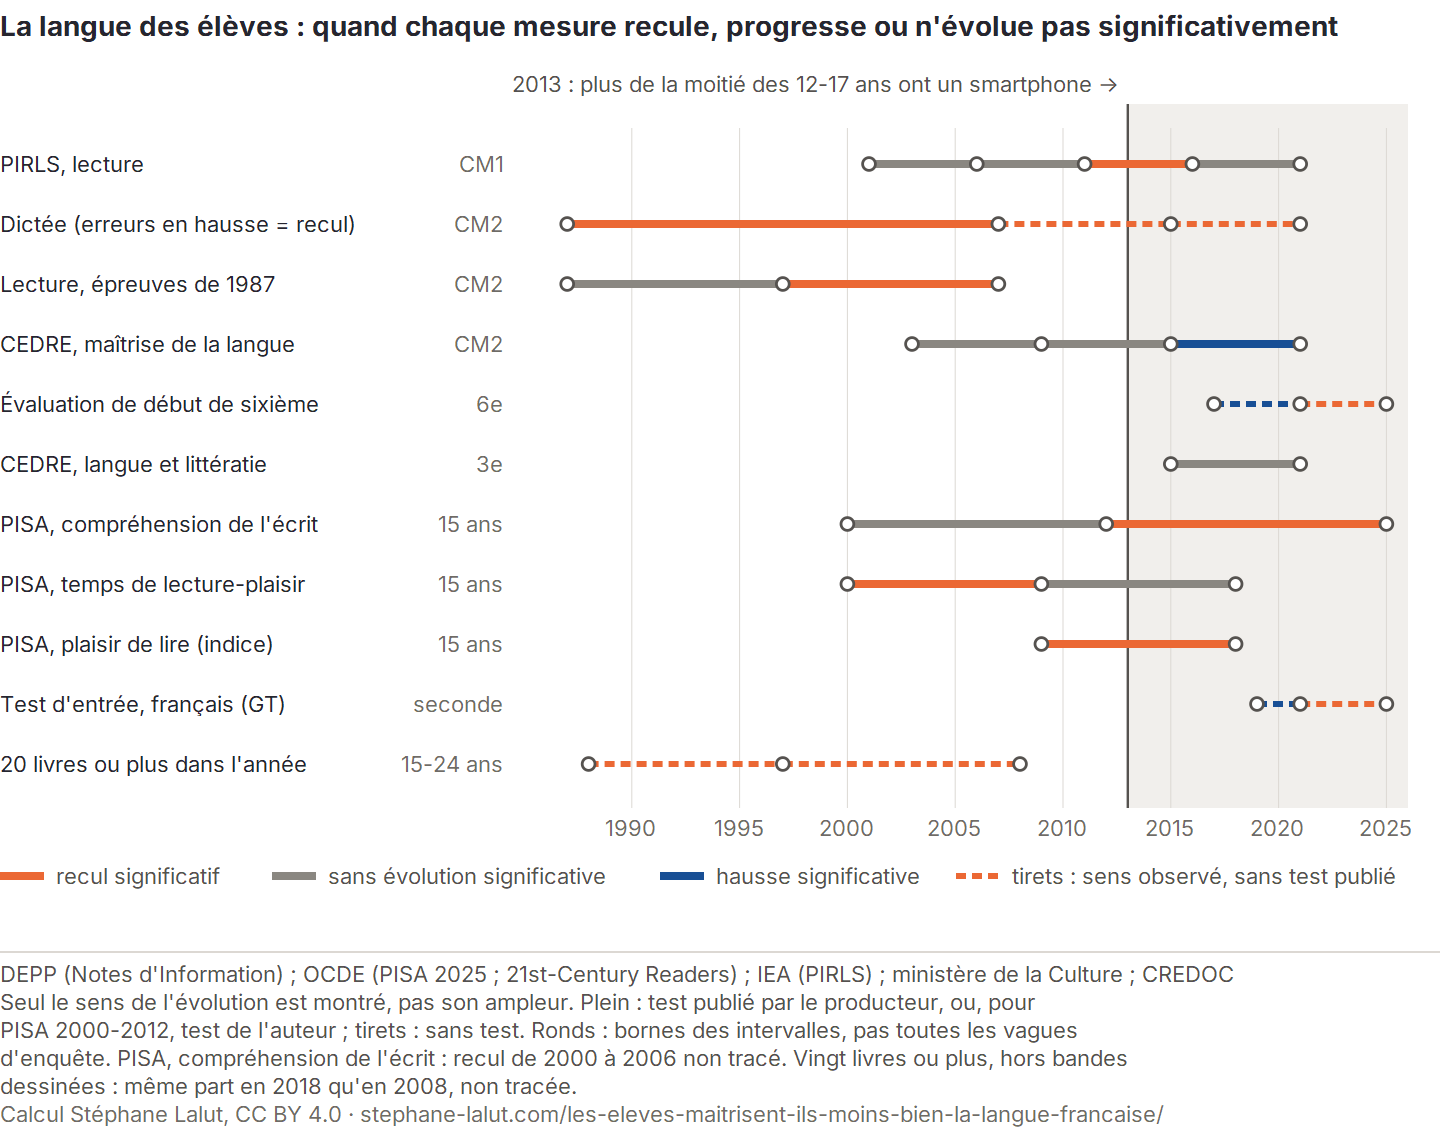
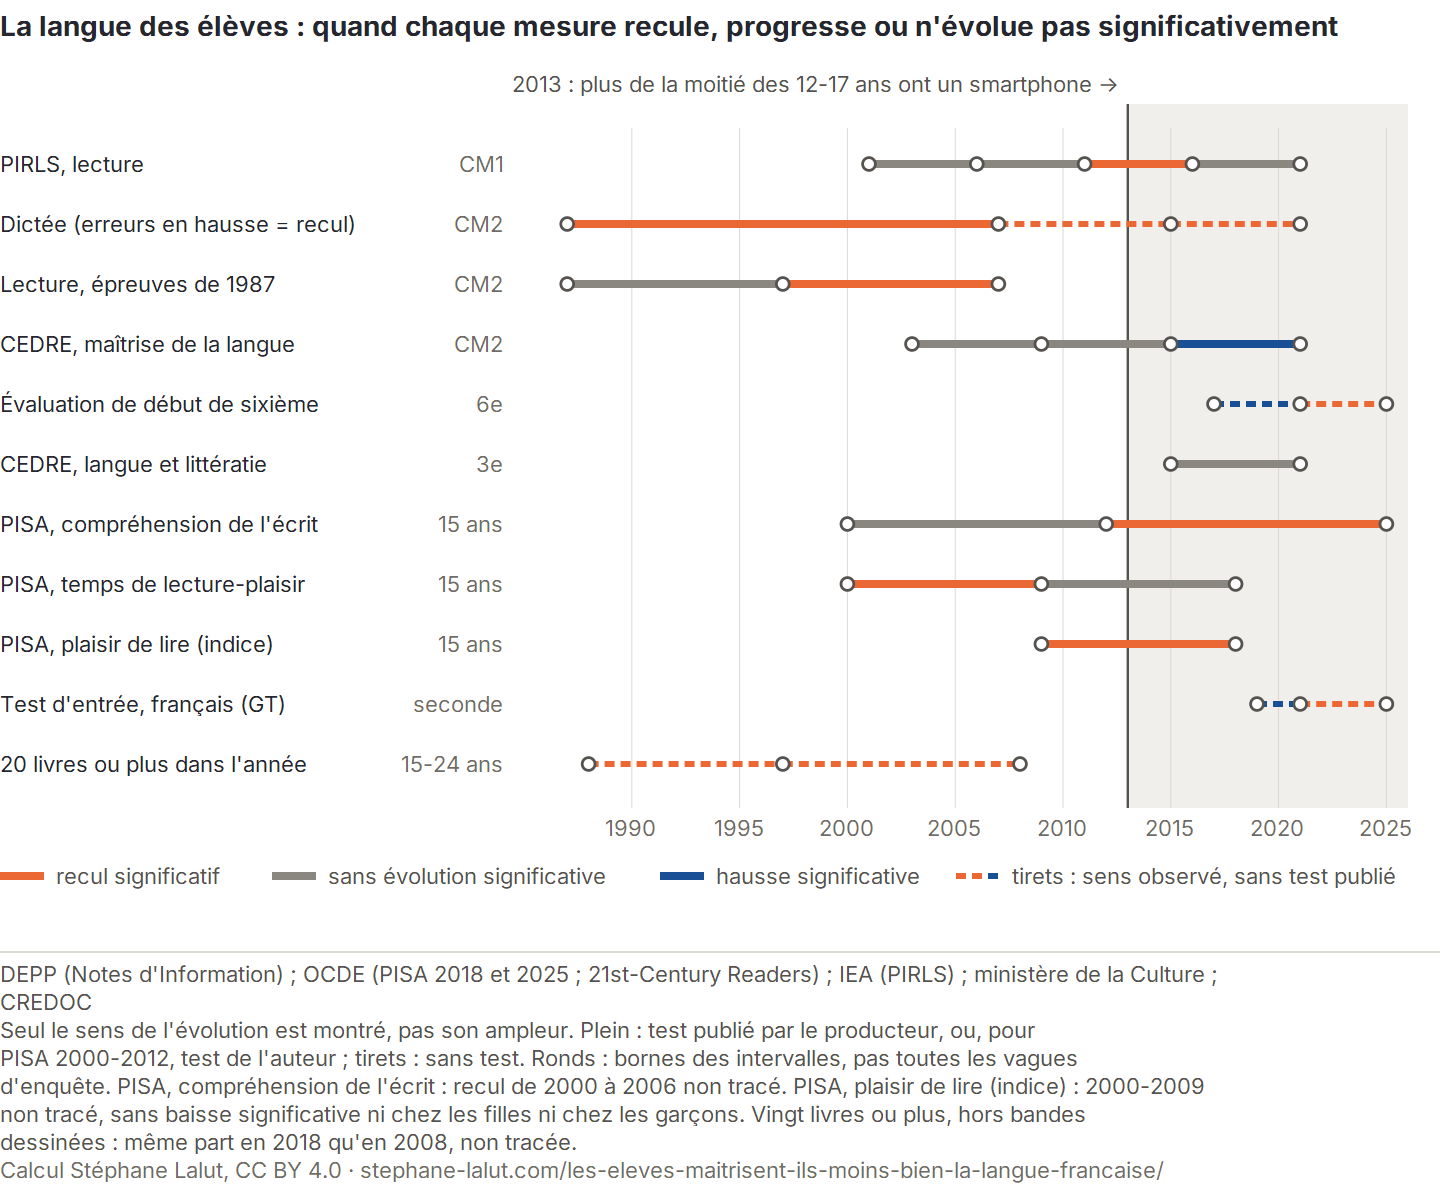
fix(ecole): Étudiants (quatre situations, comparateurs, résultat de la première section) et frise de Langue
- Étudiants : quatrième situation du BEH 2023 n° 2 (retraités, +1,7 point,
  garde) ; comparateurs d'EPICOV et de CONFINS ; « Le résultat en une
  phrase » de la première section répond à son intertitre (premier écran
  retesté : 2 lecteurs conformes, témoin mordu 3 sur 3).
- Langue : indice de plaisir 2000-2009 déclaré (PISA 2009 et 2018) ;
  légende de la frise (tirets des deux couleurs, repère 2013) ; le --check
  du générateur contrôle aussi les hauteurs déclarées.

diff --git a/scripts/update_langue_eleves.py b/scripts/update_langue_eleves.py
@@ -467,8 +467,8 @@ def pied(e, y0, source, note, licence=LICENCE):
 FIG = {
     "chronologie": dict(
         titre="La langue des élèves : quand chaque mesure recule, progresse ou n'évolue pas significativement",
-        source="DEPP (Notes d'Information) ; OCDE (PISA 2025 ; 21st-Century Readers) ; IEA (PIRLS) ; ministère de la Culture ; CREDOC",
-        note="Seul le sens de l'évolution est montré, pas son ampleur. Plein : test publié par le producteur, ou, pour PISA 2000-2012, test de l'auteur ; tirets : sans test. Ronds : bornes des intervalles, pas toutes les vagues d'enquête. PISA, compréhension de l'écrit : recul de 2000 à 2006 non\u00a0tracé. Vingt livres ou plus, hors bandes dessinées : même part en 2018 qu'en 2008, non\u00a0tracée.",
+        source="DEPP (Notes d'Information) ; OCDE (PISA 2018 et 2025 ; 21st-Century Readers) ; IEA (PIRLS) ; ministère de la Culture ; CREDOC",
+        note="Seul le sens de l'évolution est montré, pas son ampleur. Plein : test publié par le producteur, ou, pour PISA 2000-2012, test de l'auteur ; tirets : sans test. Ronds : bornes des intervalles, pas toutes les vagues d'enquête. PISA, compréhension de l'écrit : recul de 2000 à 2006 non\u00a0tracé. PISA, plaisir de lire (indice) : 2000-2009 non\u00a0tracé, sans baisse significative ni chez les filles ni chez les garçons. Vingt livres ou plus, hors bandes dessinées : même part en 2018 qu'en 2008, non\u00a0tracée.",
         montre="Les reculs les plus anciens (dictée et lecture en CM2, temps de lecture pour le plaisir à 15 ans) précèdent 2013 ; PISA, revenu en 2012 à son niveau de 2000, baisse significativement ensuite, et les évaluations passées en classe ne suivent pas toutes cette pente."),
     "dictee": dict(
         titre="La même dictée en CM2 : nombre moyen d'erreurs",
@@ -622,7 +622,11 @@ def fig_chronologie(c, A):
     x = 0
     for (col, plein), lib in ((( ORANGE, True), "recul significatif"), ((GRIS, True), "sans évolution significative"),
                               ((BLEU, True), "hausse significative"), ((ORANGE, False), "tirets : sens observé, sans test publié")):
-        e.append('<line x1="%d" y1="%d" x2="%d" y2="%d" stroke="%s" stroke-width="%s"%s/>' % (x, yl, x + 22, yl, col, "4" if plein else "3", "" if plein else ' stroke-dasharray="5 3"'))  # trait des tracés
+        if plein:
+            e.append('<line x1="%d" y1="%d" x2="%d" y2="%d" stroke="%s" stroke-width="4"/>' % (x, yl, x + 22, yl, col))  # trait des tracés
+        else:  # 19/11/2026 : deux tirets orange, un bleu (longueur des tirets tracés : 5) : les deux sens sans test
+            e.append('<line x1="%d" y1="%d" x2="%d" y2="%d" stroke="%s" stroke-width="3" stroke-dasharray="5 3"/>' % (x, yl, x + 13, yl, ORANGE))
+            e.append('<line x1="%d" y1="%d" x2="%d" y2="%d" stroke="%s" stroke-width="3"/>' % (x + 16, yl, x + 21, yl, BLEU))
         e.append('<text x="%d" y="%d" font-size="11" fill="%s">%s</text>' % (x + 28, yl + 4, INK2, esc(lib)))
         x += 34 + int(5.2 * 11 / 10 * len(lib))   # 5,2 px par caractère à 10 px, portés à la police de 11 (7 px sortaient la 4e entrée du cadre, mesure du 11/10/2026)
     return pied(e, h + 2, t["source"], t["note"])
@@ -792,8 +796,18 @@ def fig_chronologie_m(c, A):
     for col, plein, lib in ((ORANGE, True, "recul significatif"), (GRIS, True, "sans évolution significative"),
                             (BLEU, True, "hausse significative"), (ORANGE, False, "tirets : sens observé, sans test publié")):
         y += 20
-        e.append('<line x1="0" y1="%d" x2="%d" y2="%d" stroke="%s" stroke-width="%s"%s/>' % (y - 5, 24 if plein else 18, y - 5, col, "6" if plein else "4.5", "" if plein else ' stroke-dasharray="7 4"'))  # trait des tracés ; tirets sur 18 : deux tirets entiers
+        if plein:
+            e.append('<line x1="0" y1="%d" x2="24" y2="%d" stroke="%s" stroke-width="6"/>' % (y - 5, y - 5, col))  # trait des tracés
+        else:  # 19/11/2026 : un tiret orange, un tiret bleu, chacun de la longueur des tirets tracés (7) : les deux sens sans test
+            for xa, xb, cl in ((0, 7, ORANGE), (11, 18, BLEU)):
+                e.append('<line x1="%d" y1="%d" x2="%d" y2="%d" stroke="%s" stroke-width="4.5"/>' % (xa, y - 5, xb, y - 5, cl))
         e.append('<text x="32" y="%d" font-size="%s" fill="%s">%s</text>' % (y, FS_MIN, INK2, lib))
+    y += 22  # 19/11/2026 : repère dans la légende, échantillon = trait vertical et fond de la frise
+    e.append('<rect x="0" y="%d" width="24" height="20" fill="#f1efec"/>' % (y - 15))
+    e.append('<line x1="0.7" y1="%d" x2="0.7" y2="%d" stroke="%s" stroke-width="1.4"/>' % (y - 15, y + 5, INK2))
+    for k, ligne in enumerate(("%s : plus de la moitié des 12-17 ans" % A["smart_seuil"], "ont un smartphone (trait vertical)")):
+        e.append('<text x="32" y="%d" font-size="%s" fill="%s">%s</text>' % (y + 18 * k, FS_MIN, INK2, ligne))
+    y += 18
     for titre_p, rows, a0, a1, pas_ax, repere in (("Mesures commencées avant %s" % A["smart_seuil"], longues, 1985, 2026, 10, True),
                                                   ("Mesures commencées depuis %s" % A["smart_seuil"], recentes, a0_rec, 2026, 5, False)):
         y += 34
@@ -821,10 +835,7 @@ def fig_chronologie_m(c, A):
         for a in range(a0 + (pas_ax - a0 % pas_ax) % pas_ax, a1 + 1, pas_ax):
             e.append('<text x="%.1f" y="%d" font-size="%s" fill="%s" text-anchor="middle">%d</text>' % (sx(a), y + 18, FS_MIN, MUTED, a))
         y += 24
-        if repere:  # arbitrage multi-angle du 10/10 : dire ce que 2013 désigne
-            for k, ligne in enumerate(("%s : plus de la moitié des 12-17 ans" % A["smart_seuil"], "ont un smartphone (trait vertical)")):
-                e.append('<text x="0" y="%d" font-size="%s" fill="%s">%s</text>' % (y + 16 + 18 * k, FS_MIN, INK2, ligne))
-            y += 34
+        # 19/11/2026 : le repère (arbitrage du 10/10, « dire ce que 2013 désigne ») est dit dans la légende, plus ici
     e, h = pied_m(e, y + 14, t["source"], t["note"])
     return finir_m(e, h)
 
@@ -988,9 +999,6 @@ def main() -> int:
     A = affichage(c)
     log("Dictee CM2 : %s -> %s erreurs (lexicales %s -> %s) ; PISA lecture 2012-2025 : -%s ; seuil smartphone %s"
         % (A["tot87"], A["tot21"], A["lex87"], A["lex21"], A["pisa_v12"], A["smart_seuil"]))
-    if check:
-        log("--check : %d gardes passees (%d cles d'affichage), rien ecrit." % (n, len(A)))
-        return 0
     import cairosvg
     figs = {"langue-chronologie.svg": fig_chronologie(c, A), "langue-dictee.svg": fig_dictee(c, A), "langue-plaisir.svg": fig_plaisir(c, A),
             "langue-chronologie-m.svg": fig_chronologie_m(c, A), "langue-dictee-m.svg": fig_dictee_m(c, A), "langue-plaisir-m.svg": fig_plaisir_m(c, A),
@@ -999,6 +1007,9 @@ def main() -> int:
     ecarts = pied_figure.controler_page((ROOT / "content" / "les-eleves-maitrisent-ils-moins-bien-la-langue-francaise" / "_index.md").read_text(encoding="utf-8"), figs)
     if ecarts:
         fail("page : " + " ; ".join(ecarts))
+    if check:  # 19/11/2026 : après la parité téléphone et les hauteurs déclarées par la page
+        log("--check : %d gardes passees (%d cles d'affichage), parite et hauteurs de la page controlees, rien ecrit." % (n, len(A)))
+        return 0
     X = c["X"]
     payload = {"meta": {"page": "https://" + PAGE_URL, "licence": "CC BY 4.0",
                         "champ": "France ; élèves de CM1, CM2, sixième, troisième, seconde ; jeunes de 15 ans (PISA) ; 15-24 ans (enquêtes Pratiques culturelles)",

diff --git a/scripts/update_malaise_etudiant.py b/scripts/update_malaise_etudiant.py
@@ -252,6 +252,8 @@ def gardes(c: dict) -> int:
     g(abs((e["2021"] - e["2017"]) - hz["etudiants"]) < 0.05, "etudiants : niveaux 2017 et 2021 coherents avec la hausse publiee")
     g(all(lg.depasse(hz["etudiants"], v) for k, v in hz.items() if k != "etudiants"),
       "la plus forte hausse de toutes les situations publiees")
+    g(sorted(hz) == sorted(("etudiants", "chomeurs", "actifs_occupes", "retraites")),
+      "les quatre situations professionnelles que le bulletin analyse : quatre hausses, toutes donnees sur la page")
     g(e["2010"] < e["2017"] < e["2021"], "la hausse precede le covid, qui l'accelere")
     g(e["2021"] - e["2017"] > e["2017"] - e["2010"], "accelere apres 2017")
     t18 = c["t1824"]
@@ -394,6 +396,7 @@ def affichage(c: dict) -> dict:
         "etu_2010": n(e["2010"]), "etu_2017": n(e["2017"]), "etu_2021": n(e["2021"]),
         "h_etu": lg.points(hz["etudiants"], signe_=True), "h_chom": lg.points(hz["chomeurs"], signe_=True),
         "h_actifs": lg.points(hz["actifs_occupes"], signe_=True),
+        "h_retr": lg.points(hz["retraites"], signe_=True),
         "f1824_2017": n(c["f1824"]["2017"]), "f1824_2021": n(c["f1824"]["2021"]),
         "t1824_2017": n(c["t1824"]["2017"]), "t1824_2021": n(c["t1824"]["2021"]),
         "t1824_hausse": lg.points(c["t1824"]["2021"] - c["t1824"]["2017"], signe_=True),

diff --git a/content/les-etudiants-vont-ils-plus-mal/_index.md b/content/les-etudiants-vont-ils-plus-mal/_index.md
@@ -82,13 +82,13 @@ onglet:  # barre du dossier de son bloc (partials/barre-bloc.html, posée par le
 <div class="figure-lecture__texte">
 <div class="resultat-phrase">
 
-**Le résultat en une phrase.** De 2019 à {{< etu-val "hosp_der" >}}, le taux de jeunes femmes de 18 à 24 ans hospitalisées pour un geste auto-infligé a augmenté de {{< etu-val "hosp_f_var" >}}&nbsp;%, celui des jeunes hommes de {{< etu-val "hosp_h_var" >}}&nbsp;%&nbsp;: **la dégradation, engagée avant le covid, touche d'abord les jeunes femmes.**
+**Le résultat en une phrase.** De 2019 à {{< etu-val "hosp_der" >}}, le taux de jeunes femmes de 18 à 24 ans hospitalisées pour un geste auto-infligé a augmenté de {{< etu-val "hosp_f_var" >}}&nbsp;%, celui des jeunes hommes de {{< etu-val "hosp_h_var" >}}&nbsp;% (données DREES, calcul de l'auteur)&nbsp;: **les données de soins vont dans le même sens que les déclarations chez les jeunes adultes, d'abord chez les jeunes femmes&nbsp;; mais ces séries ne distinguent pas les étudiants des autres jeunes.**
 
 </div>
 </div>
 </div>
 
-Le Baromètre santé de Santé publique France suit l'épisode dépressif des étudiants&nbsp;: en 2021, {{< etu-val "etu_2021" >}}&nbsp;% des étudiants déclarent un épisode dépressif caractérisé (au moins deux semaines de tristesse ou de perte d'intérêt, avec d'autres symptômes et un retentissement sur la vie quotidienne) au cours des douze derniers mois, contre {{< etu-val "etu_2017" >}}&nbsp;% en 2017 et {{< etu-val "etu_2010" >}}&nbsp;% en 2010. Parmi les quatre situations professionnelles que le bulletin analyse, c'est chez eux que la hausse estimée est la plus forte&nbsp;: {{< etu-val "h_etu" >}} chez les étudiants, {{< etu-val "h_chom" >}} chez les chômeurs, {{< etu-val "h_actifs" >}} chez les actifs occupés. Ces écarts ne sont pas testés&nbsp;: rien ne dit qu'ils dépassent l'incertitude de l'enquête.
+Le Baromètre santé de Santé publique France suit l'épisode dépressif des étudiants&nbsp;: en 2021, {{< etu-val "etu_2021" >}}&nbsp;% des étudiants déclarent un épisode dépressif caractérisé (au moins deux semaines de tristesse ou de perte d'intérêt, avec d'autres symptômes et un retentissement sur la vie quotidienne) au cours des douze derniers mois, contre {{< etu-val "etu_2017" >}}&nbsp;% en 2017 et {{< etu-val "etu_2010" >}}&nbsp;% en 2010. Parmi les quatre situations professionnelles que le bulletin analyse, c'est chez eux que la hausse estimée est la plus forte&nbsp;: {{< etu-val "h_etu" >}} chez les étudiants, {{< etu-val "h_chom" >}} chez les chômeurs, {{< etu-val "h_actifs" >}} chez les actifs occupés et {{< etu-val "h_retr" >}} chez les retraités. Ces écarts ne sont pas testés&nbsp;: rien ne dit qu'ils dépassent l'incertitude de l'enquête.
 
 Ce classement ne dit pas que les étudiants se dégradent plus que les autres jeunes. Chez l'ensemble des 18-24&nbsp;ans, étudiants compris, la part passe de {{< etu-val "t1824_2017" >}}&nbsp;% en 2017 à {{< etu-val "t1824_2021" >}}&nbsp;% en 2021 ({{< etu-val "t1824_hausse" >}})&nbsp;: une hausse plus forte, pour un niveau du même ordre en 2021 ({{< etu-val "etu_2021" >}}&nbsp;% chez les étudiants). Les deux groupes se recouvrent et n'ont pas les mêmes âges&nbsp;: on ne peut pas en conclure que les jeunes non étudiants se dégradent davantage, seulement que la «&nbsp;plus forte hausse&nbsp;» des étudiants ne vaut que parmi les situations professionnelles.
 
@@ -211,7 +211,7 @@ Six explications reviennent souvent dans le débat, empilées en un même récit
 | Massification sans moyens | dépense par étudiant en recul depuis 2009 | chez les 18-25&nbsp;ans, les hausses estimées de 2017 à 2021 sont plus fortes, chacune, chez les jeunes en emploi et chez les jeunes sans emploi ni formation que chez les étudiants (écarts non testés)&nbsp;: ce résultat n'appuie pas une explication exclusivement universitaire, sans exclure une contribution des conditions d'études | une transformation documentée, dont la contribution au malaise n'est pas mesurée |
 | Réformes des études | non examiné ici | non examiné ici | les indicateurs retenus ici ne permettent pas d'évaluer leur contribution |
 | Smartphone et réseaux sociaux | dégradation visible au lycée, plus forte chez les filles | dans une étude observationnelle anglaise, les établissements qui restreignent le téléphone n'ont pas un meilleur bien-être moyen (SMART Schools, 2025)&nbsp;: une politique évaluée, pas les usages | un effet possible de certaines pratiques, non un facteur établi |
-| Covid et confinement | accélération après 2020&nbsp;; symptômes dépressifs plus fréquents chez les étudiants en 2020-2021 (EPICOV), surtout pendant les confinements (CONFINS, enquête en ligne auprès de volontaires) | la hausse commence avant le covid, dans les séries d'hospitalisation des jeunes femmes et des adolescentes | pas l'origine&nbsp;; un rôle d'accélérateur plausible, non mesuré |
+| Covid et confinement | accélération après 2020&nbsp;; en 2020-2021, symptômes dépressifs plus fréquents chez les étudiants que chez les jeunes en emploi (EPICOV, 18-30&nbsp;ans) et que chez les non-étudiants, plus âgés, surtout pendant les confinements (CONFINS, enquête en ligne auprès de volontaires) | la hausse commence avant le covid, dans les séries d'hospitalisation des jeunes femmes et des adolescentes | pas l'origine&nbsp;; un rôle d'accélérateur plausible, non mesuré |
 | Inflation et logement | précarité associée à la détresse | la forte inflation date de 2022, après la hausse de 2017-2021 | la forte inflation de 2022 ne peut pas expliquer la hausse mesurée jusqu'en 2021&nbsp;; le logement et les difficultés financières antérieures ne sont pas mesurés ici |
 | Absence de perspectives | non examiné ici | non examiné ici | non mesuré par ces sources |
 | Malaise de génération (contre-récit) | dégradation aussi chez les autres jeunes, lycéens compris&nbsp;; dans la comparaison publiée par situation d'activité, hausse estimée des étudiants de 18 à 25&nbsp;ans inférieure à celles des jeunes en emploi et des jeunes sans emploi ni formation (2017-2021, écarts non testés) | un écart propre aux étudiants à âge et sexe égaux | plausible, non démontré&nbsp;; une comparaison à âge et sexe égaux éclairerait le récit et le contre-récit, sans les départager à elle seule |

diff --git a/content/les-eleves-maitrisent-ils-moins-bien-la-langue-francaise/_index.md b/content/les-eleves-maitrisent-ils-moins-bien-la-langue-francaise/_index.md
@@ -112,8 +112,8 @@ La frise les détaille&nbsp;: en trait plein, le verdict d'un test, publié par 
 
 <figure class="figure-ciseau">
   <picture>
-    <source media="screen and (max-width: 899px)" srcset="/img/langue-chronologie-m.svg" width="300" height="1213">
-    <img src="/img/langue-chronologie.svg" alt="Frise de 1985 à 2026, une ligne par mesure, des compétences en langue aux pratiques et au goût de la lecture, avec le sens de chaque intervalle et un repère en {{< lan-val "smart_seuil" >}}, année où plus de la moitié des 12-17 ans ont un smartphone. Reculs significatifs avant ce repère : dictée de CM2 de 1987 à 2007, puis hausse des erreurs sans test publié ; lecture en CM2 de 1997 à 2007, après une période sans évolution significative de 1987 à 1997 ; temps de lecture pour le plaisir à 15 ans de 2000 à 2009, puis sans évolution significative jusqu'en 2018. PISA, compréhension de l'écrit : sans écart significatif entre 2000 et 2012 (test de l'auteur), en recul significatif de 2012 à 2025 ; indice de plaisir de lire en recul significatif de 2009 à 2018. PIRLS en CM1 : sans évolution significative de 2001 à 2011, en recul significatif de 2011 à 2016, sans évolution significative de 2016 à 2021. CEDRE fin d'école : sans évolution significative de 2003 à 2015, en hausse significative de 2015 à 2021 ; CEDRE fin de collège sans évolution significative de 2015 à 2021 ; sixième et test d'entrée en seconde générale et technologique en hausse puis en recul, sans test publié. Part des 15-24 ans qui lisent vingt livres ou plus dans l'année, hors bandes dessinées : en recul de 1988 à 2008, sans test publié ; même part en 2018 qu'en 2008, non tracée." width="720" height="569" loading="lazy">
+    <source media="screen and (max-width: 899px)" srcset="/img/langue-chronologie-m.svg" width="300" height="1287">
+    <img src="/img/langue-chronologie.svg" alt="Frise de 1985 à 2026, une ligne par mesure, des compétences en langue aux pratiques et au goût de la lecture, avec le sens de chaque intervalle et un repère en {{< lan-val "smart_seuil" >}}, année où plus de la moitié des 12-17 ans ont un smartphone. Reculs significatifs avant ce repère : dictée de CM2 de 1987 à 2007, puis hausse des erreurs sans test publié ; lecture en CM2 de 1997 à 2007, après une période sans évolution significative de 1987 à 1997 ; temps de lecture pour le plaisir à 15 ans de 2000 à 2009, puis sans évolution significative jusqu'en 2018. PISA, compréhension de l'écrit : sans écart significatif entre 2000 et 2012 (test de l'auteur), en recul significatif de 2012 à 2025 ; indice de plaisir de lire sans baisse significative de 2000 à 2009, ni chez les filles ni chez les garçons (non tracé), puis en recul significatif de 2009 à 2018. PIRLS en CM1 : sans évolution significative de 2001 à 2011, en recul significatif de 2011 à 2016, sans évolution significative de 2016 à 2021. CEDRE fin d'école : sans évolution significative de 2003 à 2015, en hausse significative de 2015 à 2021 ; CEDRE fin de collège sans évolution significative de 2015 à 2021 ; sixième et test d'entrée en seconde générale et technologique en hausse puis en recul, sans test publié. Part des 15-24 ans qui lisent vingt livres ou plus dans l'année, hors bandes dessinées : en recul de 1988 à 2008, sans test publié ; même part en 2018 qu'en 2008, non tracée." width="720" height="597" loading="lazy">
   </picture>
   <figcaption>Sens de chaque intervalle, pas son ampleur, pour onze mesures, des compétences en langue aux pratiques et au goût de la lecture (DEPP, OCDE, IEA, ministère de la Culture, CREDOC).</figcaption>
 </figure>
